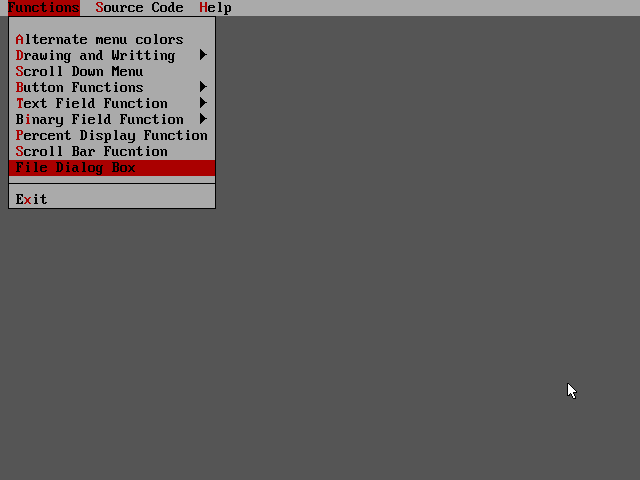
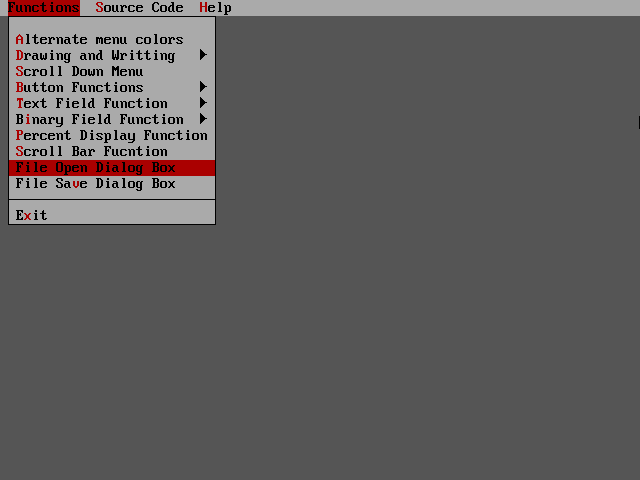
File dialogs: separate Open and Save boxes
- file_open_dialog(): the file must exist; a name that is not there is
  refused.
- file_save_dialog(): asks before an existing file is replaced, and adds
  the mask's extension to a name typed without one.
- file_dialog() stays as it was: any name is taken.
- A NULL title gives "Open File" or "Save File"; the button says Open or
  Save.
- Example: both boxes in the Functions menu (F2, F3); help topic,
  READMEs and screenshots updated.

Changed region(s): [[0.0, 0.3438, 0.3438, 0.4688], [0.875, 0.7812, 0.9062, 0.8438]]

diff --git a/src/filedlg.c b/src/filedlg.c
@@ -4,9 +4,16 @@
 /* New in the rebuilt library (the original had none).  It is made of the   */
 /* library's own parts: a window, buttons, the scroll bar, the text screen. */
 /*                                                                          */
+/*   int file_open_dialog(char *title, char *mask, char *filename);         */
+/*       to choose a file that is there: a name that is not is refused      */
+/*   int file_save_dialog(char *title, char *mask, char *filename);         */
+/*       to name a file to write: if there is such a file already, the      */
+/*       user is asked whether to replace it; a name typed without an       */
+/*       extension gets the one of the mask ("*.TXT" gives .TXT)            */
 /*   int file_dialog(char *title, char *mask, char *filename);              */
+/*       the plain one: any name is taken, nothing is asked                 */
 /*                                                                          */
-/*   title    : the title of the window, "Open File" for one                */
+/*   title    : the title of the window (NULL: "Open File", "Save File")    */
 /*   mask     : the files to list, "*.TXT" for one (NULL or "" : "*.*")     */
 /*   filename : where the chosen name is put, with its drive and path;      */
 /*              room for 128 characters                                     */
@@ -19,7 +26,7 @@
 /*                                   the mask, or take the file             */
 /*   TAB                             to the buttons                         */
 /*   ESC, Cancel                     give up                                */
-/* A name that is not in the list can be typed: a file to be made.          */
+/* A name that is not in the list can be typed (but not to open a file).    */
 /* The current drive and directory are the same after the dialog as before. */
 /*--------------------------------------------------------------------------*/
 #include <stdio.h>
@@ -40,6 +47,10 @@
 #define NAME_W      30
 #define MAX_FILES   400
 #define FNAME_MAX    64
+
+#define FD_ANY      0             /* the kinds of dialog                    */
+#define FD_OPEN     1
+#define FD_SAVE     2
 
 #define ID_OK       2001
 #define ID_CANCEL   2002
@@ -70,6 +81,7 @@ static int   wx, wy;              /* the window's corner                    */
 static char  name[FNAME_MAX + 1];  /* the name field                         */
 static char  mask[FNAME_MAX + 1];
 static int   sb_x1, sb_y1, sb_x2, sb_y2;
+static int   dlg_type;            /* FD_ANY, FD_OPEN or FD_SAVE             */
 
 int process_windows(void);
 
@@ -274,10 +286,87 @@ static void select_entry(int i)
   show_name();
 }
 /*--------------------------------------------------------------------------*/
+/* a line to the user, where the directory is shown                         */
+/*--------------------------------------------------------------------------*/
+static void message(const char *text)
+{
+  char line[DLG_W];
+  int  w = DLG_W - 4;
+
+  memset(line, ' ', w);
+  line[w] = 0;
+  memcpy(line, text, strlen(text));
+  txt_curs(7);
+  pls(wx + 2, wy + NAME_Y + 1, (unsigned char *) line, 0xF4);
+}
+
+static int file_exists(const char *path)
+{
+  char n[16];
+  int  is_dir;
+
+  return gp_findfirst(path, n, &is_dir) == 0 && !is_dir;
+}
+
+/* the file is there already: write over it ?  Y or N */
+static int ask_replace(void)
+{
+  int key;
+
+  printf("\a");
+  message("That file exists.  Replace it ?  (Y/N)");
+  for (;;)
+  {
+    key = getkey();
+    gcurs(MOVE);
+    if (key == 'y' || key == 'Y') return 1;
+    if (key == 'n' || key == 'N' || key == ESC || key == ENTER) break;
+  }
+  show_path();
+  show_name();
+  return 0;
+}
+
+/* to save: a name without an extension gets the one of the mask */
+static void add_extension(void)
+{
+  char *dot = strrchr(mask, '.');
+  char *last = strrchr(name, '\\');
+
+  if (last == NULL) last = name;
+  if (strchr(last, '.') != NULL) return;
+  if (dot == NULL || dot[1] == 0) return;
+  if (strchr(dot, '*') != NULL || strchr(dot, '?') != NULL) return;
+  if (strlen(name) + strlen(dot) > FNAME_MAX) return;
+  strcat(name, dot);
+}
+/*--------------------------------------------------------------------------*/
 /* Enter: what the name field says is done.                                 */
 /* returns 1 if it names a file (and filename is filled in)                 */
 /*--------------------------------------------------------------------------*/
+static int take_file(char *filename);
+
 static int activate(char *filename)
+{
+  if (take_file(filename) == 0) return 0;
+
+  if (dlg_type == FD_OPEN && !file_exists(filename))
+  {
+    printf("\a");
+    message("There is no such file.");
+    delay_func(1500);
+    show_path();
+    show_name();
+    return 0;
+  }
+  if (dlg_type == FD_SAVE && file_exists(filename))
+  {
+    if (ask_replace() == 0) return 0;
+  }
+  return 1;
+}
+
+static int take_file(char *filename)
 {
   char path[140];
   int  len;
@@ -314,6 +403,11 @@ static int activate(char *filename)
   }
 
   /* a file: its whole name */
+  if (dlg_type == FD_SAVE)
+  {
+    add_extension();
+    show_name();
+  }
   if (strchr(name, ':') != NULL || name[0] == '\\')
   {
     strcpy(filename, name);
@@ -334,7 +428,7 @@ static int activate(char *filename)
   return 1;
 }
 /*--------------------------------------------------------------------------*/
-int file_dialog(char *title, char *file_mask, char *filename)
+static int dialog(int type, char *title, char *file_mask, char *filename)
 {
   char start_dir[140];
   int  start_drive;
@@ -346,6 +440,9 @@ int file_dialog(char *title, char *file_mask, char *filename)
   int  gx, gy, gx2, gy2;
 
   if (font_width == 1) return NO;             /* (graphics modes only)      */
+
+  dlg_type = type;
+  if (title == NULL) title = (type == FD_SAVE) ? "Save File" : "Open File";
 
   files = (struct entry *) malloc(MAX_FILES * sizeof(struct entry));
   if (files == NULL) return NO;
@@ -391,7 +488,9 @@ int file_dialog(char *title, char *file_mask, char *filename)
   sb_x2 = sb_x1 + 19;
   sb_y2 = (wy + LIST_Y + LIST_ROWS) * font_height + 1;
 
-  b1 = draw_button("  ^OK  ", wx + 33, wy + 7,  78, 23, ID_OK,     ALTO);
+  if (type == FD_OPEN)      b1 = draw_button(" ^Open ", wx + 33, wy + 7, 78, 23, ID_OK, ALTO);
+  else if (type == FD_SAVE) b1 = draw_button(" ^Save ", wx + 33, wy + 7, 78, 23, ID_OK, ALTS);
+  else                      b1 = draw_button("  ^OK  ", wx + 33, wy + 7, 78, 23, ID_OK, ALTO);
   b2 = draw_button("Cancel",  wx + 33, wy + 10, 78, 23, ID_CANCEL, ESC);
 
   alt_control(INIT, 0);
@@ -512,5 +611,23 @@ int file_dialog(char *title, char *file_mask, char *filename)
   files = NULL;
 
   return result;
+}
+/*--------------------------------------------------------------------------*/
+/* any name is taken */
+int file_dialog(char *title, char *mask, char *filename)
+{
+  return dialog(FD_ANY, title, mask, filename);
+}
+
+/* a file that is there */
+int file_open_dialog(char *title, char *mask, char *filename)
+{
+  return dialog(FD_OPEN, title, mask, filename);
+}
+
+/* a file to write: asks before one is replaced */
+int file_save_dialog(char *title, char *mask, char *filename)
+{
+  return dialog(FD_SAVE, title, mask, filename);
 }
 /*--------------------------------------------------------------------------*/

diff --git a/src/demo.c b/src/demo.c
@@ -60,8 +60,8 @@ extern unsigned _stklen=15000u;
 /*     demo 104      1024 x 768, 16 colors                                  */
 /*     demo 105      1024 x 768, 256 colors                                 */
 /* without it the mode is 12 (640 x 480, 16 colors) as before.              */
-/* And the File Dialog Box, which the original library had not: in the      */
-/* Functions menu, or F2.                                                   */
+/* And the File Dialog Boxes, which the original library had not: in the    */
+/* Functions menu, or F2 (open) and F3 (save).                              */
 /*--------------------------------------------------------------------------*/
 int main(int argc,char **argv)
 {
@@ -229,11 +229,20 @@ int main(int argc,char **argv)
        about();
        break;
 /*--------------------------------------------------------------------------*/
-      case 4300:   /* the File dialog box (new in the rebuilt library); F2 */
-       if(file_dialog("Open File","*.*",file_name)==YES)
+      case 4300:   /* the File Open dialog box (new in the rebuilt library); F2 */
+       if(file_open_dialog(NULL,"*.*",file_name)==YES)
        {
          frect(0,txt_scr_ysize-1,txt_scr_xsize-1,txt_scr_ysize-1,0x1F,0);
-         pls(0,txt_scr_ysize-1,"File : ",0x1E);
+         pls(0,txt_scr_ysize-1,"Open : ",0x1E);
+         pls(7,txt_scr_ysize-1,file_name,0x1F);
+       }
+       break;
+/*--------------------------------------------------------------------------*/
+      case 4310:   /* the File Save dialog box; F3 (nothing is written) */
+       if(file_save_dialog(NULL,"*.TXT",file_name)==YES)
+       {
+         frect(0,txt_scr_ysize-1,txt_scr_xsize-1,txt_scr_ysize-1,0x1F,0);
+         pls(0,txt_scr_ysize-1,"Save : ",0x1E);
          pls(7,txt_scr_ysize-1,file_name,0x1F);
        }
        break;

diff --git a/src/gui.h b/src/gui.h
@@ -130,6 +130,8 @@ void          disable_button(int );
 void          disable_button2(int ,int);
 int           check_button(int);
 int           file_dialog(char *title,char *mask,char *filename);
+int           file_open_dialog(char *title,char *mask,char *filename);
+int           file_save_dialog(char *title,char *mask,char *filename);
 void          deactivate_activebuttons(void);
 void          reactivate_activebuttons(void); // reactivate all previously active buttons
 

diff --git a/README.md b/README.md
@@ -14,7 +14,7 @@ the original example program.
 
 | | |
 | --- | --- |
-| ![Menu](screenshots/menu.png)<br>The pull-down menu | ![File dialog](screenshots/file-dialog.png)<br>The file dialog (new) |
+| ![Menu](screenshots/menu.png)<br>The pull-down menu | ![File dialog](screenshots/file-dialog.png)<br>The Save dialog asking before it replaces a file (new) |
 | ![Help](screenshots/help.png)<br>The hypertext help window | ![Scroll bar](screenshots/scroll-bar.png)<br>The scroll bar |
 | ![About](screenshots/about.png)<br>A window with a button | ![1024x768](screenshots/1024x768.png)<br>The same program at 1024 x 768 |
 
@@ -26,7 +26,9 @@ the original example program.
   mode: 128 x 48 characters at 1024 x 768, for example.
 - **16-bit and 32-bit programs.** The same source builds a large-model
   real-mode library and a 32-bit DOS/4GW one with Open Watcom.
-- **A file dialog box**, `file_dialog()`, which the original never had.
+- **File dialog boxes**, which the original never had: `file_open_dialog()`
+  insists that the file exists, `file_save_dialog()` asks before a file is
+  replaced, and `file_dialog()` takes any name.
 - **The original interface.** `GUI.H` is unchanged apart from additions, and
   the original `DEMO.C` compiles against the rebuilt library as it is.
 
